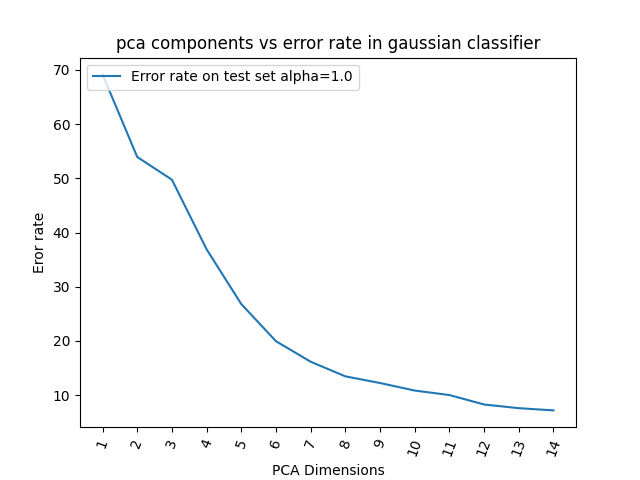
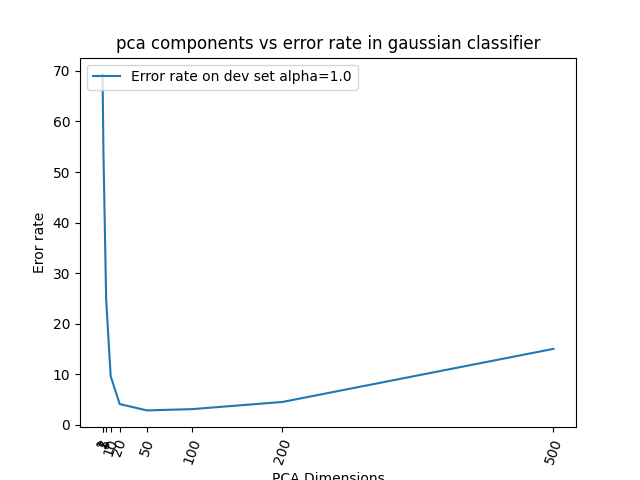
...

diff --git a/gaussian/scr/gaussian-exp.py b/gaussian/scr/gaussian-exp.py
@@ -9,32 +9,37 @@ import matplotlib.pyplot as plt
 
 def main():
     (x_train, y_train), (x_test, y_test) = get_mnist("../dat/mnist").load_data()
+    traindev_size = round(x_train.shape[0]*0.9)
+    x_dev = x_train[traindev_size:]
+    y_dev = y_train[traindev_size:]
+    x_train = x_train[:traindev_size]
+    y_train = y_train[:traindev_size]
 
-    # 4.1
+    # Unsmooth gaussian classifier
     print("Gaussian classifier with mnist dataset reduced by PCA")
-    pca_components = list(range(1, 15))
+    pca_components = [1, 2, 5, 10, 20, 50, 100, 200, 500]
     pca_results = []
     for pca_component in pca_components:
         pca = PCA(n_components=pca_component)
         pca.fit(x_train)
-        x_train_tmp = pca.transform(x_train)
-        x_test_tmp = pca.transform(x_test)
+        x_train_proj = pca.transform(x_train)
+        x_dev_proj = pca.transform(x_dev)
         gauss = gaussian_classifier()
-        gauss.train(x_train_tmp, y_train)
-        yhat = gauss.predict(x_test_tmp)
-        pca_results.append(np.mean(y_test != yhat) * 100)
+        gauss.train(x_train_proj, y_train)
+        yhat = gauss.predict(x_dev_proj)
+        pca_results.append(np.mean(y_dev != yhat) * 100)
     ##Save plot
     fig, ax = plt.subplots()
     plt.title("pca components vs error rate in gaussian classifier")
-    plt.plot(pca_components, pca_results, label="Error rate on test set alpha=1.0")
+    plt.plot(pca_components, pca_results, label="Error rate on dev set alpha=1.0")
     plt.legend(loc="upper left")
     plt.xticks(pca_components, rotation=70)
     plt.xlabel("PCA Dimensions")
     plt.ylabel("Eror rate")
     plt.savefig("exp/unsmoothed_gaussian.png")
-    # 4.2
-    print("Gaussian classifier with mnist dataset reduced by PCA with smoothing")
-    alphas = [0.01, 0.5, 0.9]
+    # Smoothed gaussian classifier
+    print("Gaussian classifier with MNIST dataset reduced by PCA with smoothing")
+    alphas = [0.00001, 0.0001, 0.001, 0.01, 0.1, 0.2, 0.5, 0.9]
     plt.title("pca components vs error rate in gaussian classifier with smoothing")
     plt.plot(pca_components, pca_results)
     for alpha in alphas:
@@ -42,17 +47,17 @@ def main():
         for pca_component in pca_components:
             pca = PCA(n_components=pca_component)
             pca.fit(x_train)
-            x_train_tmp = pca.transform(x_train)
-            x_test_tmp = pca.transform(x_test)
+            x_train_proj = pca.transform(x_train)
+            x_dev_proj = pca.transform(x_dev)
             gauss = gaussian_classifier()
-            gauss.train(x_train_tmp, y_train, alpha=alpha)
-            yhat = gauss.predict(x_test_tmp)
-            pca__smooth_results.append(np.mean(y_test != yhat) * 100)
-        plt.plot(pca_components, pca__smooth_results, marker="o", label=f"Error rate on test set alpha={alpha}")
+            gauss.train(x_train_proj, y_train, alpha=alpha)
+            yhat = gauss.predict(x_dev_proj)
+            pca__smooth_results.append(np.mean(y_dev != yhat) * 100)
+        plt.plot(pca_components, pca__smooth_results, marker="o", label=f"Error rate on dev set alpha={alpha}")
     ##Save plot
     plt.legend(loc="upper left")
     plt.xlabel("PCA Dimensions")
-    plt.ylabel("Eror rate")
+    plt.ylabel("Error rate")
     plt.xticks(pca_components, rotation=70)
     plt.savefig("exp/smoothed_gaussian.png")
 
